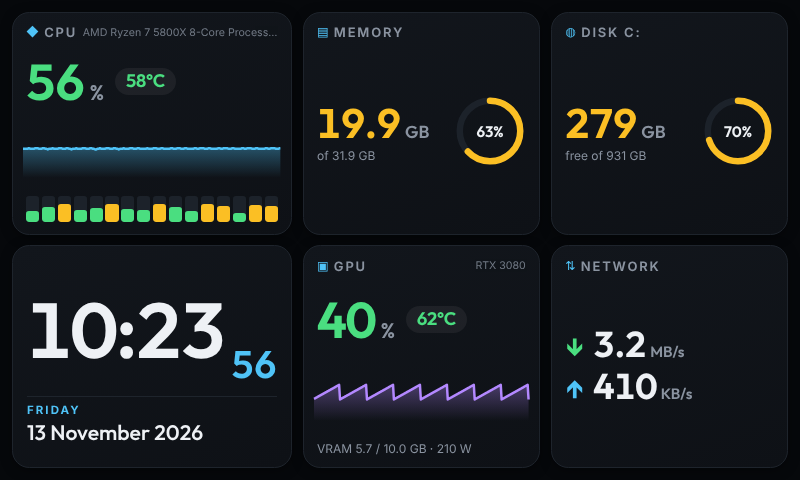
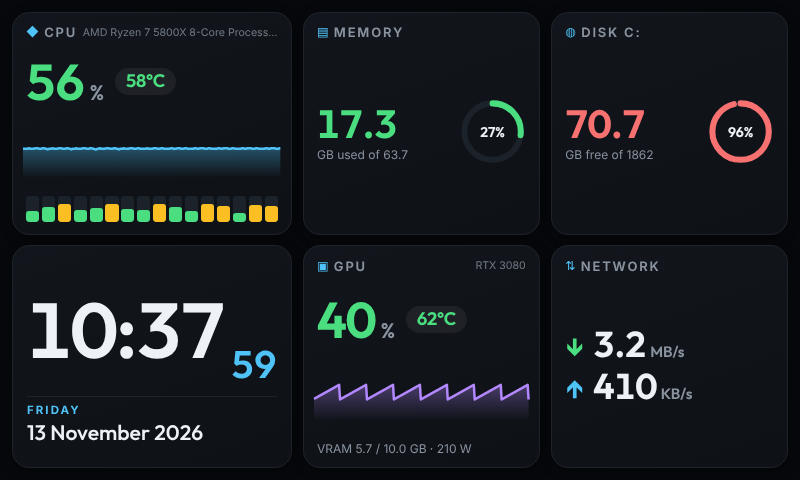
v1.3.1: reload stale Car Thing copy after updates, keep values clear of ring gauges
Claude-Session: https://claude.ai/code/session_012C1HCLEP1UKrgaqZb5bfPc

diff --git a/src/main.tsx b/src/main.tsx
@@ -4,6 +4,7 @@ import { DeskThing } from '@deskthing/client'
 import '@fontsource-variable/outfit'
 import '@fontsource-variable/inter'
 import './index.css'
+import manifest from '../deskthing/manifest.json'
 
 type Cfg = {
   layout: 'split' | 'full'
@@ -194,6 +195,17 @@ function App() {
   useEffect(() => {
     const off = subscribe((data) => {
       if (data.request === 'config' && data.payload) {
+        // After an update the Car Thing can keep showing a cached copy of the old app. If the PC side runs a
+        // newer version than this page, reload this page once with a cache-busting query.
+        const serverVersion = (data.payload as { version?: string }).version
+        if (!PREVIEW && serverVersion && serverVersion !== manifest.version) {
+          const tried = sessionStorage.getItem('sysmon-reload')
+          if (tried !== serverVersion) {
+            sessionStorage.setItem('sysmon-reload', serverVersion)
+            location.replace(`${location.pathname}?v=${encodeURIComponent(serverVersion)}&t=${Date.now()}`)
+            return
+          }
+        }
         const next = { ...DEFAULT_CFG, ...(data.payload as Partial<Cfg>) }
         lenRef.current = historyLen(next.refreshMs)
         setCfg(next)
@@ -330,9 +342,8 @@ function App() {
             <div className="split-main">
               <div className="big">
                 <span style={{ color: tone(mem) }}>{gb(st.memUsed)}</span>
-                <span className="unit">GB</span>
               </div>
-              <div className="sub">of {gb(st.memTotal)} GB</div>
+              <div className="sub">GB used of {gb(st.memTotal)}</div>
             </div>
             <Ring value={mem} color={tone(mem)} />
           </div>
@@ -373,9 +384,8 @@ function App() {
             <div className="split-main">
               <div className="big">
                 <span style={{ color: tone(v) }}>{gb(st.gpu.memUsed)}</span>
-                <span className="unit">GB</span>
               </div>
-              <div className="sub">of {gb(st.gpu.memTotal)} GB</div>
+              <div className="sub">GB used of {gb(st.gpu.memTotal)}</div>
             </div>
             <Ring value={v} color={tone(v)} />
           </div>
@@ -415,9 +425,8 @@ function App() {
             <div className="split-main">
               <div className="big">
                 <span style={{ color: tone(u) }}>{gb(disk.total - disk.used)}</span>
-                <span className="unit">GB</span>
               </div>
-              <div className="sub">free of {gb(disk.total)} GB</div>
+              <div className="sub">GB free of {gb(disk.total)}</div>
             </div>
             <Ring value={u} color={tone(u)} />
           </div>

diff --git a/server/index.ts b/server/index.ts
@@ -6,6 +6,7 @@ import path from 'node:path'
 import http from 'node:http'
 import { execFile } from 'node:child_process'
 import { PREVIEW_HTML } from './preview'
+import manifest from '../deskthing/manifest.json'
 
 // DeskThing starts app servers with a nearly empty environment (no PATH, SystemRoot, ProgramFiles).
 // Windows tools such as nvidia-smi, netstat and PowerShell fail without them, so fill in the usual defaults.
@@ -503,7 +504,7 @@ function broadcast(msg: Msg): void {
 }
 
 let lastStats: Msg | null = null
-const configMsg = (): Msg => ({ request: 'config', payload: cfg })
+const configMsg = (): Msg => ({ request: 'config', payload: { ...cfg, version: manifest.version } })
 
 function sendStats(): void {
   const total = os.totalmem()

diff --git a/src/index.css b/src/index.css
@@ -152,3 +152,6 @@ body { font-family: 'Inter Variable', system-ui, -apple-system, 'Segoe UI', Robo
 .split-main { flex: 1 1 auto; overflow: hidden; }
 .ring { width: calc(15vh * var(--gs)); height: calc(15vh * var(--gs)); max-width: 42%; flex-shrink: 1; }
 .big.xl .chip { font-size: 0.24em; top: -0.9em; }
+.split-main { flex: 1 1 0; min-width: 0; overflow: visible; }
+.split .big { font-size: calc(8.2vh * var(--ns)); }
+.ring { flex: 0 0 auto; width: calc(14vh * var(--gs)); height: calc(14vh * var(--gs)); max-width: 46%; }
